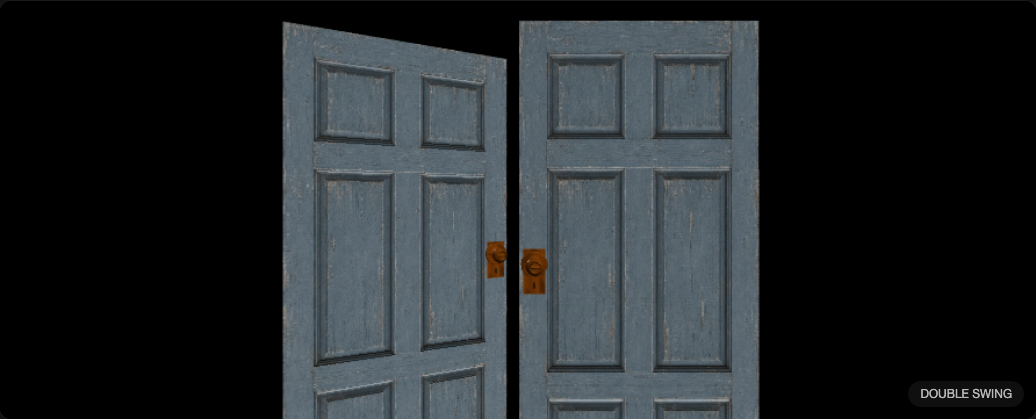
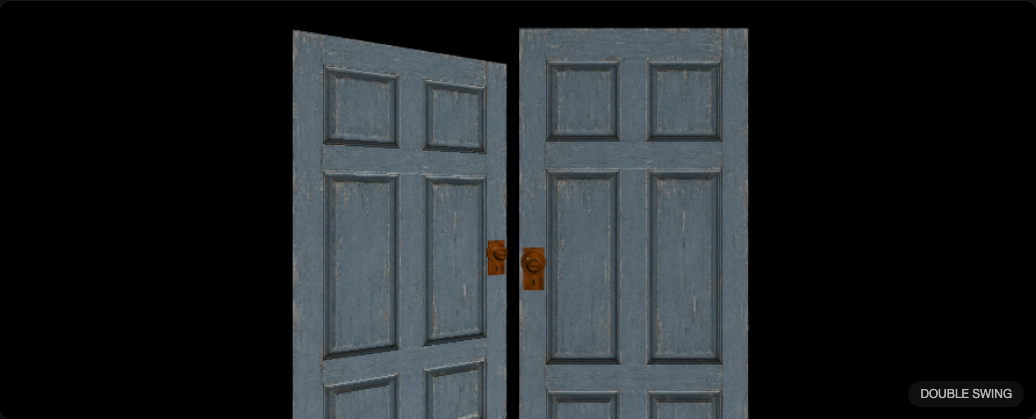
fix: preserve blue door micro-opening pause before advancing

diff --git a/packages/door-lib/src/core/__tests__/double-camera.test.ts b/packages/door-lib/src/core/__tests__/double-camera.test.ts
@@ -30,8 +30,11 @@ test("blue double pauses briefly then advances continuously without a passage sp
   const slight = marker("slight-open");
   const resume = marker("hold-end");
   assert.ok(resume - slight <= 250, "S3 does not support the old half-second hold");
-  assert.ok(at(resume).cameraPosition[2] < at(slight).cameraPosition[2],
-    "camera should begin a gentle approach during the leaf hold");
+  for (let ms = slight; ms <= resume; ms += 25) {
+    assert.deepEqual(at(ms).cameraPosition, at(slight).cameraPosition,
+      "camera must hold together with the micro-open leaf");
+    assert.equal(at(ms).doorAngle, at(slight).doorAngle);
+  }
   assert.equal(at(slight).doorAngle, at(resume).doorAngle);
   const z = (ms: number) => at(ms).cameraPosition[2];
   let previousStep = z(resume - 25) - z(resume);

diff --git a/packages/door-lib/src/core/animationStyles.ts b/packages/door-lib/src/core/animationStyles.ts
@@ -355,11 +355,11 @@ const doubleDoor1996 = (): EraAnimationProfile => {
     cameraPosition: ([
       { ...camera(0, 7.6), easing: "ease-out" },
       camera(1200, 5.3),
-      // Begin gently while the leaf holds; avoid compressing the approach into the tail.
-      { ...camera(4500, 5.3), easing: "ease-in" },
-      camera(5150, 4.65),
+      // Let the micro-open leaf and camera pause together before advancing.
+      { ...camera(4700, 5.3), easing: "ease-in" },
+      camera(5150, 4.85),
       // Continue at 2 units/s through fade, without the previous late rush.
-      camera(durationMs, 4.25),
+      camera(durationMs, 4.45),
     ] as TimelineKeyframe<Vector3Tuple>[]).map((frame) => ({
       ...frame,
       value: [0, 0.65, frame.value[2]],

diff --git a/packages/door-lib/tests/browser/vanilla-smoke.test.ts b/packages/door-lib/tests/browser/vanilla-smoke.test.ts
@@ -56,6 +56,9 @@ test("blue double keeps real leaves visible at fade start and honors swing direc
     return { fraction: visible / (canvas.width * canvas.height), checksum, rightWidth };
   }, { direction, atMs });
   const held = await capture(undefined, 4500);
+  const pauseEnd = await capture(undefined, 4700);
+  expect(pauseEnd.rightWidth).toBe(held.rightWidth);
+  expect(pauseEnd.checksum).toBe(held.checksum);
   const authored = await capture();
   expect(authored.rightWidth / held.rightWidth).toBeGreaterThan(1.05);
   expect(authored.rightWidth / held.rightWidth).toBeLessThan(1.2);

diff --git a/docs/era-animation-calibration-2026-10-05.md b/docs/era-animation-calibration-2026-10-05.md
@@ -613,10 +613,12 @@ Verification:89 core +2 assets,16 package,12 beta-build and42 browser tests pass
 
 User reported a sudden final rush in `biohazard-1996-b02-blue-panel-double-door`. Rechecked original S3 first passage at file6.2–7.1s in100ms steps (1280×800/60fps source; local-only contact sheet under `/tmp/blue-door-late-review`). The existing gallery source record describes gradual enlargement with left-only opening and broad faces through fade, without a separate full-open sprint. MP4 file time is not runtime time; first passage starts approximately1.87s.
 
-Previous renderer fit held camera z5.3 until4700ms, accelerated to4.1 at5150ms (5.33units/s), then reached3.033 by5350ms. Though velocity was continuous, the large displacement near the door exaggerated projected enlargement. New shared `1996-double-micro-open-hold-advance` fit starts gently at4500ms, eases quadratically to z4.65 at5150ms, then continues at2units/s to z4.25 at5350ms. With the stationary right leaf, perspective scale grows about14% by fade start and25% by black, versus29%/75% previously. These are renderer projections, not source measurements.
+Previous renderer fit held camera z5.3 until4700ms, accelerated to4.1 at5150ms (5.33units/s), then reached3.033 by5350ms. Though velocity was continuous, the large displacement near the door exaggerated projected enlargement. New shared `1996-double-micro-open-hold-advance` fit holds together with the leaf through4500–4700ms, eases quadratically fromz5.3 at4700ms toz4.85 at5150ms, then continues at2units/s toz4.45 at5350ms. With the stationary right leaf, perspective scale grows about9% by fade start and19% by black, versus29%/75% previously. These are renderer projections, not source measurements.
 
-Only this camera track changes. Initial framing, camera height/target, left-only leaf rotation, knob, audio mapping, fade and5350ms duration retain their prior values. The blue preset and1996 hinge-double style-only fallback share the set; no other released preset or Leave variant is added or changed. Precise source motion and original audio remain approximate.
+The first softer candidate started the camera during the leaf hold. User visual feedback identified that this removed the perceived pause; the final fit keeps both completely still before advancing. Only this camera track changes. Initial framing, camera height/target, left-only leaf rotation, knob, audio mapping, fade and5350ms duration retain their prior values. The blue preset and1996 hinge-double style-only fallback share the set; no other released preset or Leave variant is added or changed. Precise source motion and original audio remain approximate.
 
 Focused regression first failed on the old curve; revised core checks bound late projection growth/speed and verify continuity at fade. Real-render browser coverage measures the stationary right leaf at4500/5150ms and retains fade visibility, playback and controls. Local fade-start renderer capture: [blue double late approach](images/blue-double-late-approach-2026-10-20.png). Full playback was recorded locally and compared with the source contact sheet; the revised approach enlarges the leaves more gently. Verification results are recorded in the PR. This calibration is local, not merged or released; source counts remain8/35 published with27pending.
 
 Verification:94 core＋2local-assets,16package,46browser tests pass; lint and library/sample build pass with existing warnings. Independent reviewer found no actionable issues. New real-render leaf-growth assertion passes; full playback, Reset, seek and full-screen remain covered.
+
+2026-10-20 pause follow-up: core regression first failed against the moving-camera hold; final core94＋2asset/package16 pass. Browser checks now additionally require identical rendered width and scene checksum throughout4500–4700ms. Earlier46-browser run covered the first candidate; the final5 focused browser checks pass (blue pause/render growth/audio, timeline seek, full-screen and catalog playback). Lint and library/sample build pass with existing warnings; incremental independent review found no code blockers and its documentation feedback was addressed. The fade-start image was refreshed from the final run.

diff --git a/docs/phase1-door-progress.md b/docs/phase1-door-progress.md
@@ -41,7 +41,7 @@
 | 14 | `1-2/a08/a08-s1自動旋轉門把.mp4` | [#36](https://github.com/moojing/re-canvas-door-swing/issues/36) | 待實作 | — | 可沿用鉸鏈基礎；新增本片素材與所需硬體／動畫，完成驗證。 |
 | 15 | `1-2/a11/a11-s1重型水門.mp4` | [#36](https://github.com/moojing/re-canvas-door-swing/issues/36) | 待實作 | — | 可沿用鉸鏈基礎；新增本片素材與所需硬體／動畫，完成驗證。 |
 | 16 | `1-3/a04/a04-s1圓環把手.mp4` | [#36](https://github.com/moojing/re-canvas-door-swing/issues/36) | 待實作 | — | 可沿用鉸鏈基礎；新增本片素材與所需硬體／動畫，完成驗證。 |
-| 17 | `1-1/b02/b02-s3方塊門.mp4` | [#37](https://github.com/moojing/re-canvas-door-swing/issues/37) | 已發布；末段鏡頭校準本機完成／待審查 | `biohazard-1996-b02-blue-panel-double-door` | [PR #77](https://github.com/moojing/re-canvas-door-swing/pull/77)減少末尾突進：提早緩推並縮短前進距離；尚未合併／發布，線上beta.5仍為舊曲線。其他來源／方向QA見 #58。 |
+| 17 | `1-1/b02/b02-s3方塊門.mp4` | [#37](https://github.com/moojing/re-canvas-door-swing/issues/37) | 已發布；末段鏡頭校準本機完成／待審查 | `biohazard-1996-b02-blue-panel-double-door` | [PR #77](https://github.com/moojing/re-canvas-door-swing/pull/77)減少末尾突進：微開後門片與鏡頭同步停頓，再緩推並縮短前進距離；尚未合併／發布，線上beta.5仍為舊曲線。其他來源／方向QA見 #58。 |
 | 18 | `1-2/b04/b04-s2下通風紅木門.mp4` | [#37](https://github.com/moojing/re-canvas-door-swing/issues/37) | 待實作 | — | 素材、preset、來源動畫校準及驗證。 |
 | 19 | `1-3/b03/b03-s3時鐘塔大門.mp4` | [#37](https://github.com/moojing/re-canvas-door-swing/issues/37) | 待實作 | — | 素材、preset、來源動畫校準及驗證。 |
 | 20 | `1-1/b03/b03-s1 曲線門.mp4` | [#38](https://github.com/moojing/re-canvas-door-swing/issues/38) | 待實作 | — | 可沿用鉸鏈基礎；新增本片素材與所需硬體／動畫，完成驗證。 |

diff --git a/docs/animation-style-1996.md b/docs/animation-style-1996.md
@@ -54,10 +54,10 @@ Blue was refitted to S3 on 2026-10-10: 5.35 s, initial approach ends1.20,
 opening starts4.32, micro-open6° at4.50, resumes4.70, and fades5.15–5.35.
 Only the left leaf opens away; the right leaf remains closed. Both faces remain
 visible at fade start. Its camera is level
-at y0.65, approaches from z7.6 to5.3, holds until4.50, then gently accelerates
-to z4.65 at fade start and continues at2 units/s to z4.25 through fade. The
-2026-10-20 fit reduces excessive late enlargement while the leaf retains its
-4.50–4.70 micro-opening hold. The fitted final
+at y0.65, approaches from z7.6 to5.3, holds until4.70 together with the micro-open leaf, then gently accelerates
+to z4.85 at fade start and continues at2 units/s to z4.45 through fade. The
+2026-10-20 fit reduces excessive late enlargement and preserves the complete
+4.50–4.70 micro-opening pause for both leaf and camera. The fitted final
 40° is reached only at the black endpoint; it is not a measured source angle.
 1998 retains the preceding numeric profile. Parking camera framing and
 late acceleration were refitted on 2026-10-09; see the latest calibration section.
